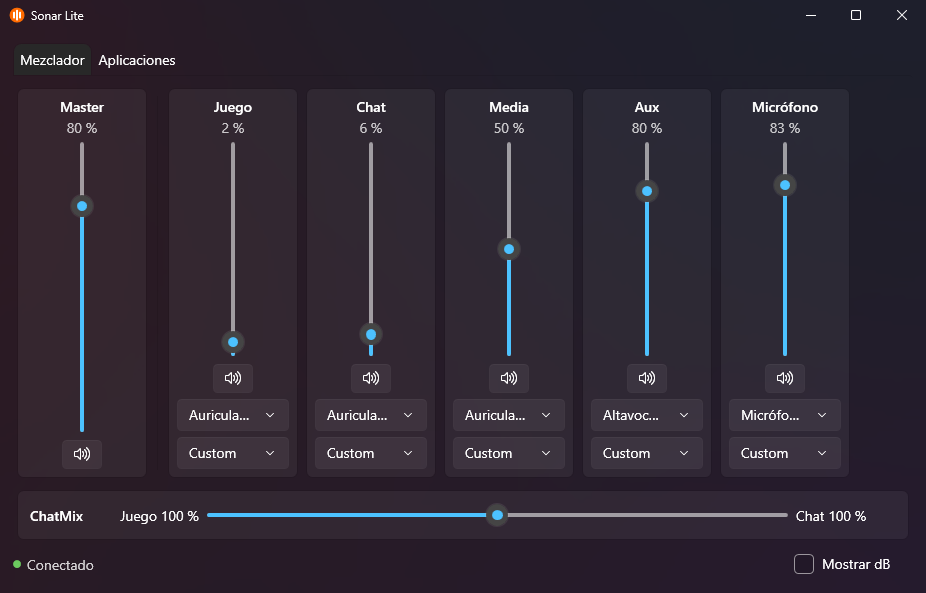
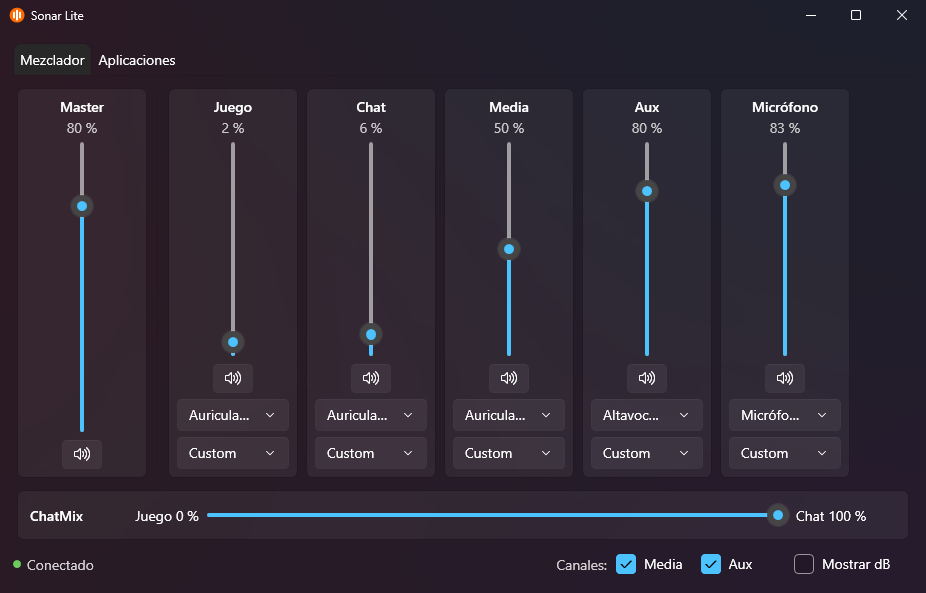
README: desactivación de canales hecha; captura del mezclador actualizada

diff --git a/README.md b/README.md
@@ -32,7 +32,17 @@ scripts\publish.ps1        # compila y publica en %LOCALAPPDATA%\Programs\SonarL
 - Logs: `%LOCALAPPDATA%\SonarLite\logs\` (`sonarlite.log` y `sonar.log`).
 
 Funciones: volumen y mute de master y de los 5 canales (en % o en dB reales), ChatMix,
-dispositivo físico de cada canal, preset de EQ por canal y enrutado de aplicaciones a canales.
+dispositivo físico de cada canal, preset de EQ por canal, enrutado de aplicaciones a canales y
+desactivación de canales.
+
+### Desactivar canales
+
+- Las casillas **Canales: Media / Aux** de la barra inferior activan o desactivan esos canales,
+  igual que en GG (Juego, Chat y Micrófono no se pueden desactivar).
+- Un canal desactivado desaparece del mezclador, de la lista de canales de "Aplicaciones" y del
+  panel de sonido de Windows (Sonar oculta su dispositivo virtual).
+- Sonar lo guarda en su base de datos y lo respeta al reiniciarse; también si el dispositivo se
+  desactiva desde el panel de sonido de Windows.
 
 ### Enrutado de aplicaciones
 
@@ -50,12 +60,6 @@ dispositivo físico de cada canal, preset de EQ por canal y enrutado de aplicaci
 - **Rueda física de ChatMix** del casco: llega vía SteelSeries Engine, que no se ejecuta.
 - La edición detallada de EQ se hace desde GG (aquí solo se eligen presets).
 - El enrutado por app es solo de salida (no micrófono).
-
-## Pendiente
-
-- **Desactivar canales**: Sonar permite deshabilitar todos los canales salvo Juego, Chat y
-  Micrófono (es decir, Media y Aux). Investigar cómo lo hace (API REST o configuración) y
-  ofrecerlo aquí, ocultando los canales desactivados en el mezclador y en el enrutado de apps.
 
 ## Estructura
 
